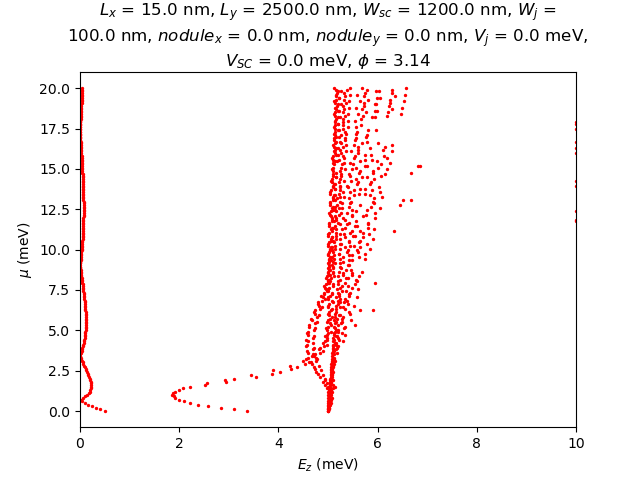
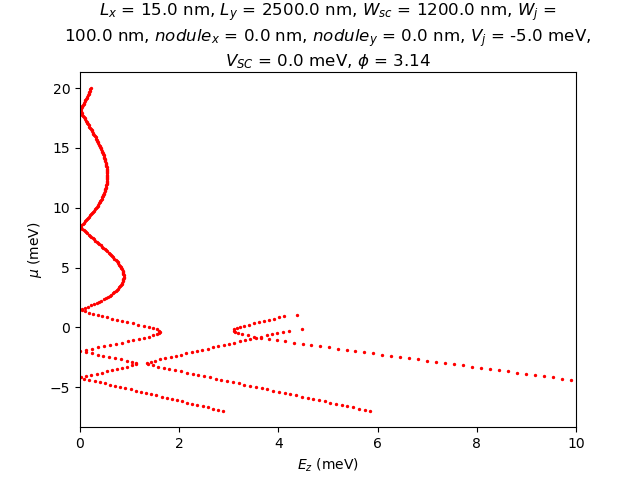
more phase diagrams

diff --git a/modules/plots.py b/modules/plots.py
@@ -1,6 +1,7 @@
 import numpy as np
 import scipy.sparse as sparse
 import matplotlib.pyplot as plt
+import matplotlib.patches as mpatches
 
 """
 Plotting the lattice neighbors and boundary neighbors
@@ -64,7 +65,26 @@ def junction(coor, delta, title = None, savenm = None):
 
 def potential_profile(coor, V):
     V = sparse.bmat([[None, V], [V, None]], format='csc')
-    junction(coor, V, title = 'Potential Profile')
+    V = V.toarray()
+    N = coor.shape[0]
+    V = V[0:N, N:]
+    fig = plt.figure()
+    axx = fig.add_subplot(1,1,1)
+
+    axx.scatter(coor[:, 0], coor[:, 1] , c = 'k')
+    for i in range(N):
+        if np.any(np.abs(V[i, :])) != 0:
+            if V[i, i] < 0:
+                axx.scatter(coor[i, 0], coor[i, 1], c = 'b', label = 'Blue')
+            if V[i, i] > 0:
+                axx.scatter(coor[i, 0], coor[i, 1], c = 'red', label = 'Red')
+    blue_patch = mpatches.Patch(color='b', label='Negative potential')
+    red_patch = mpatches.Patch(color='r', label='Positive potential')
+    plt.legend(handles=[blue_patch,red_patch])
+    axx.set_xlim(-5, max(coor[:,0])+5)
+    axx.set_title('Potential Profile', wrap = True)
+    axx.set_aspect(1.0)
+    plt.show()
 
 """
 Plotting the probability density

diff --git a/nodular_JJ/topological_PD/mu vs gamma/boundary_only.py b/nodular_JJ/topological_PD/mu vs gamma/boundary_only.py
@@ -44,10 +44,11 @@ alpha = 100 #Spin-Orbit Coupling constant: [meV*A]
 phi = np.pi #SC phase difference
 delta = 1 #Superconducting Gap: [meV]
 Vsc = 0 #SC potential: [meV]
-Vj = 0 #Junction potential: [meV]
+Vj = -5 #Junction potential: [meV]
 V = Vjj(coor, Wj = Wj, Vsc = Vsc, Vj = Vj, cutx = cutx, cuty = cuty)
+plots.potential_profile(coor, V)
 
-mu_i = 0
+mu_i = -7
 mu_f = 20
 res = 0.1
 delta_mu = mu_f - mu_i
@@ -71,7 +72,7 @@ except:
 if PLOT != 'P':
     for i in range(mu_steps):
         print(mu_steps-i, "| mu =", mu[i])
-        gx = gamfinder.lowE(coor, NN, NNb, ax, ay, mu[i]+dmu, gi, gf, Wj=Wj, cutx=cutx, cuty=cuty, V=V, alpha=alpha, delta=delta, phi=phi, k = 50)
+        gx = gamfinder.lowE(coor, NN, NNb, ax, ay, mu[i]+dmu, gi, gf, Wj=Wj, cutx=cutx, cuty=cuty, V=V, alpha=alpha, delta=delta, phi=phi, k = 164)
         for j in range(num_bound):
             if j >= gx.size:
                 boundary[i, j] = None

diff --git a/operators/sparse_operators.py b/operators/sparse_operators.py
@@ -178,7 +178,7 @@ def H0(
     alpha = 0, gamx = 0, gamy = 0, gamz = 0, g_normal = 26, g_sc = 26,
     qx = None, qy = None,
     Tesla = False,
-    diff_g_factors = True, Rfactor = 1/5, diff_alphas = False, diff_meff = False
+    diff_g_factors = True, Rfactor = 0, diff_alphas = False, diff_meff = False
     ):
     # Hamiltonian with SOC and no superconductivity
     N = coor.shape[0] #number of lattice sites
